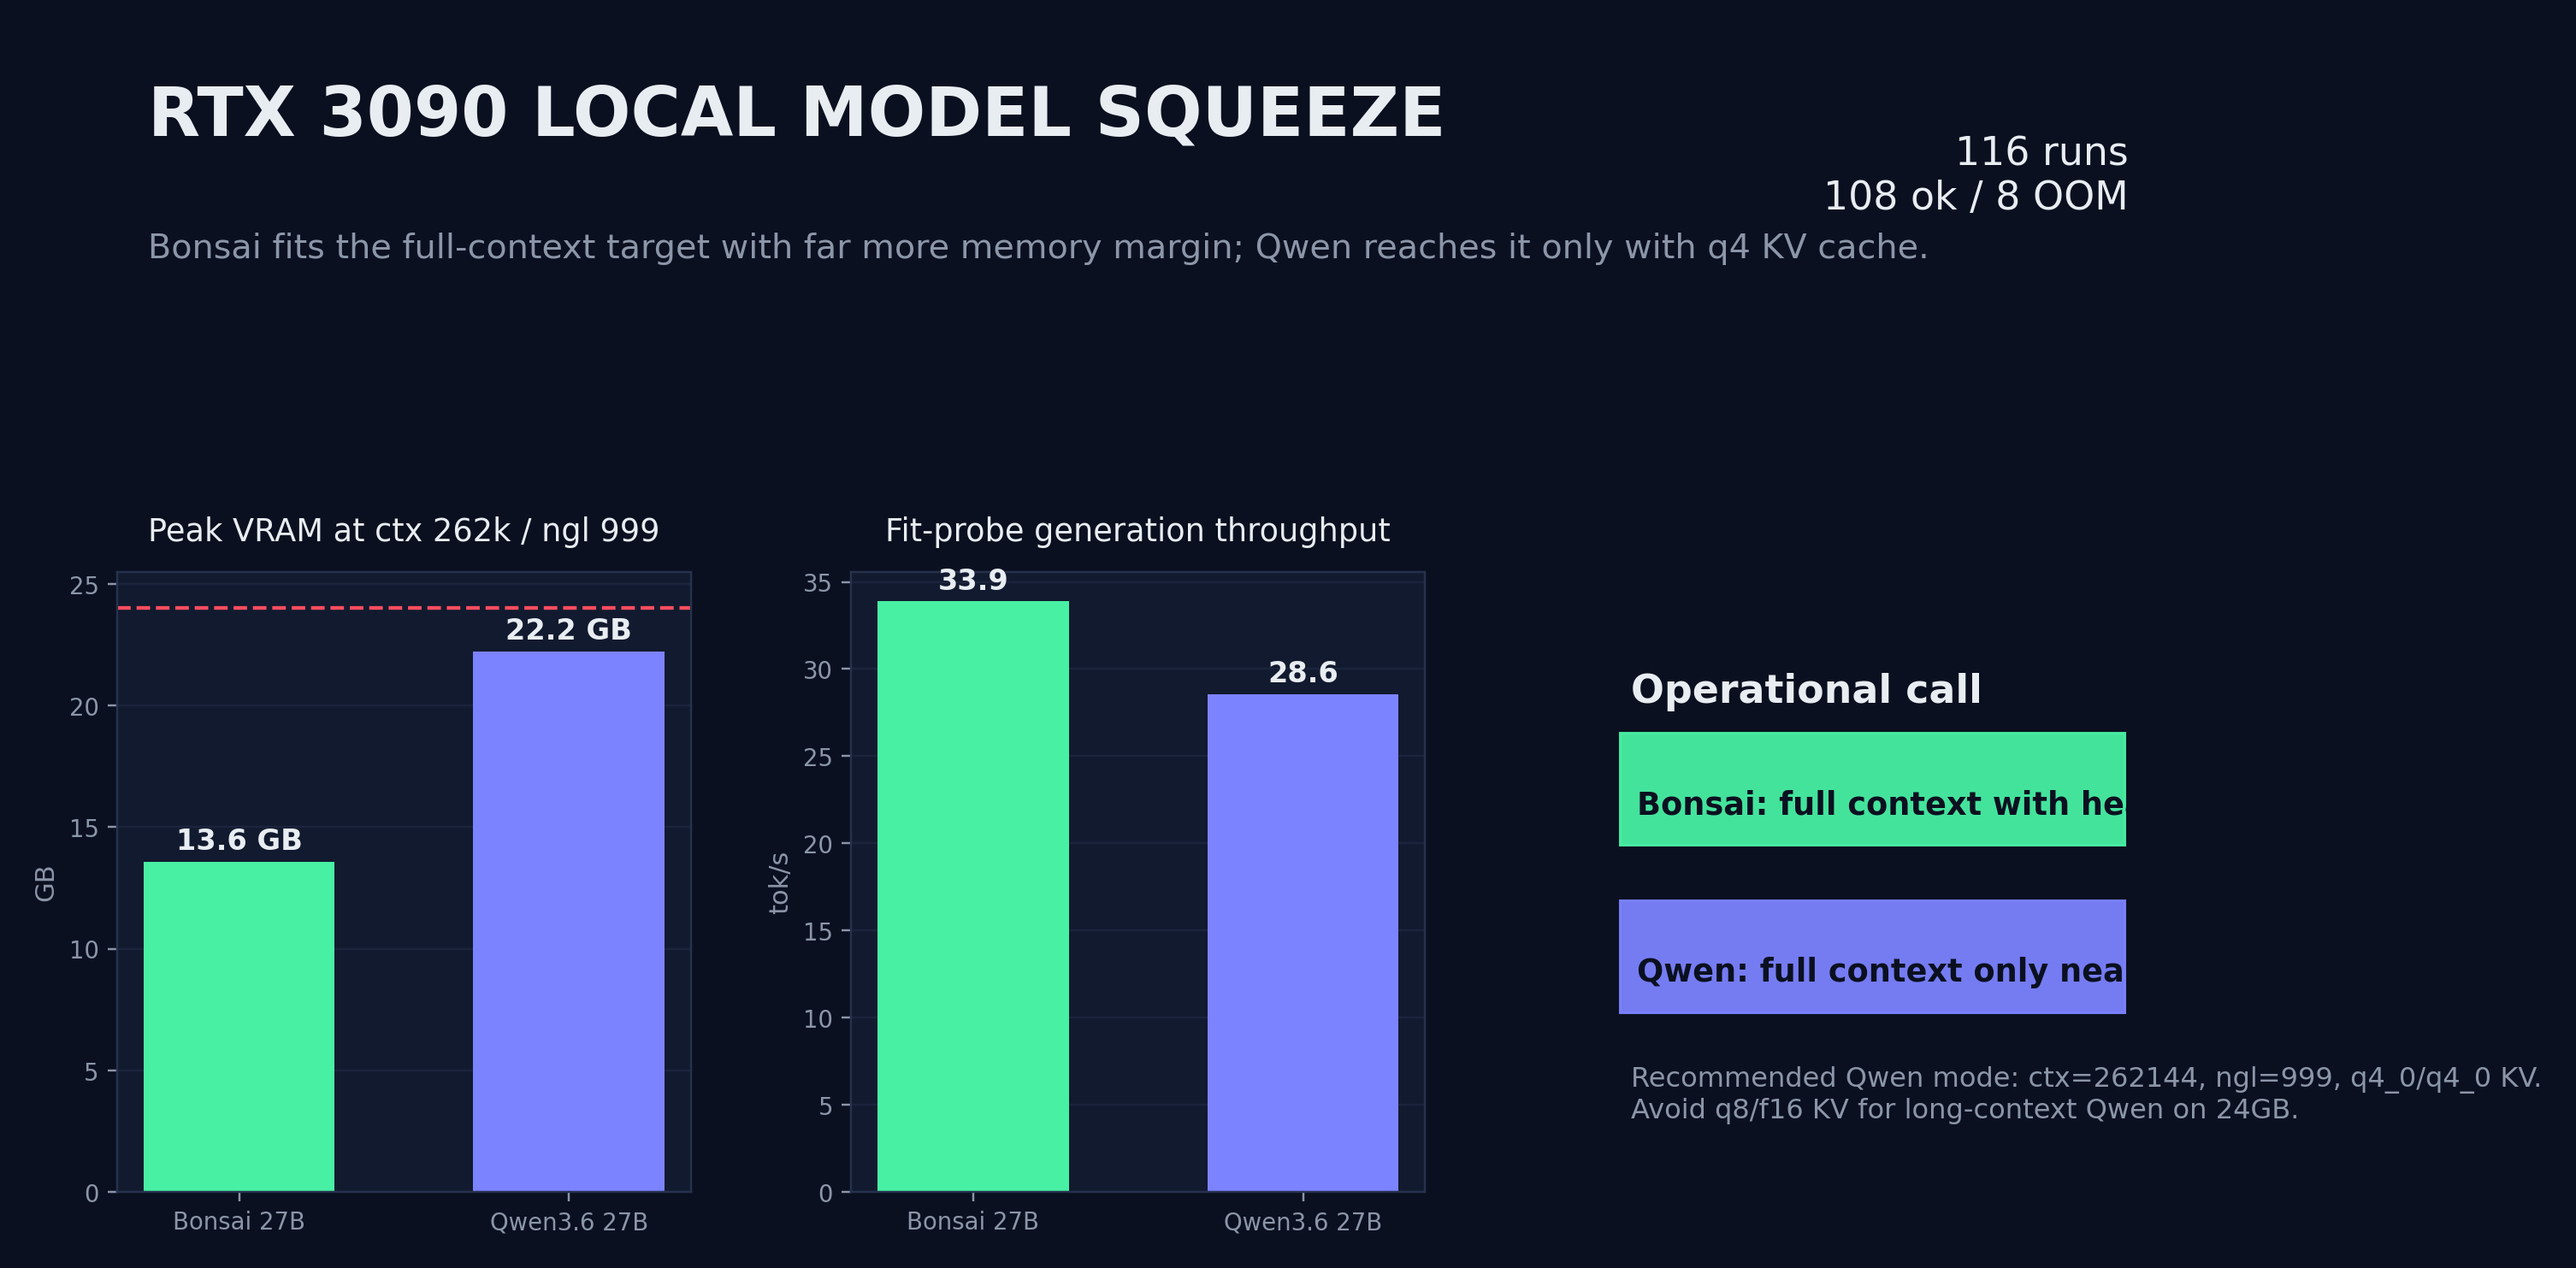
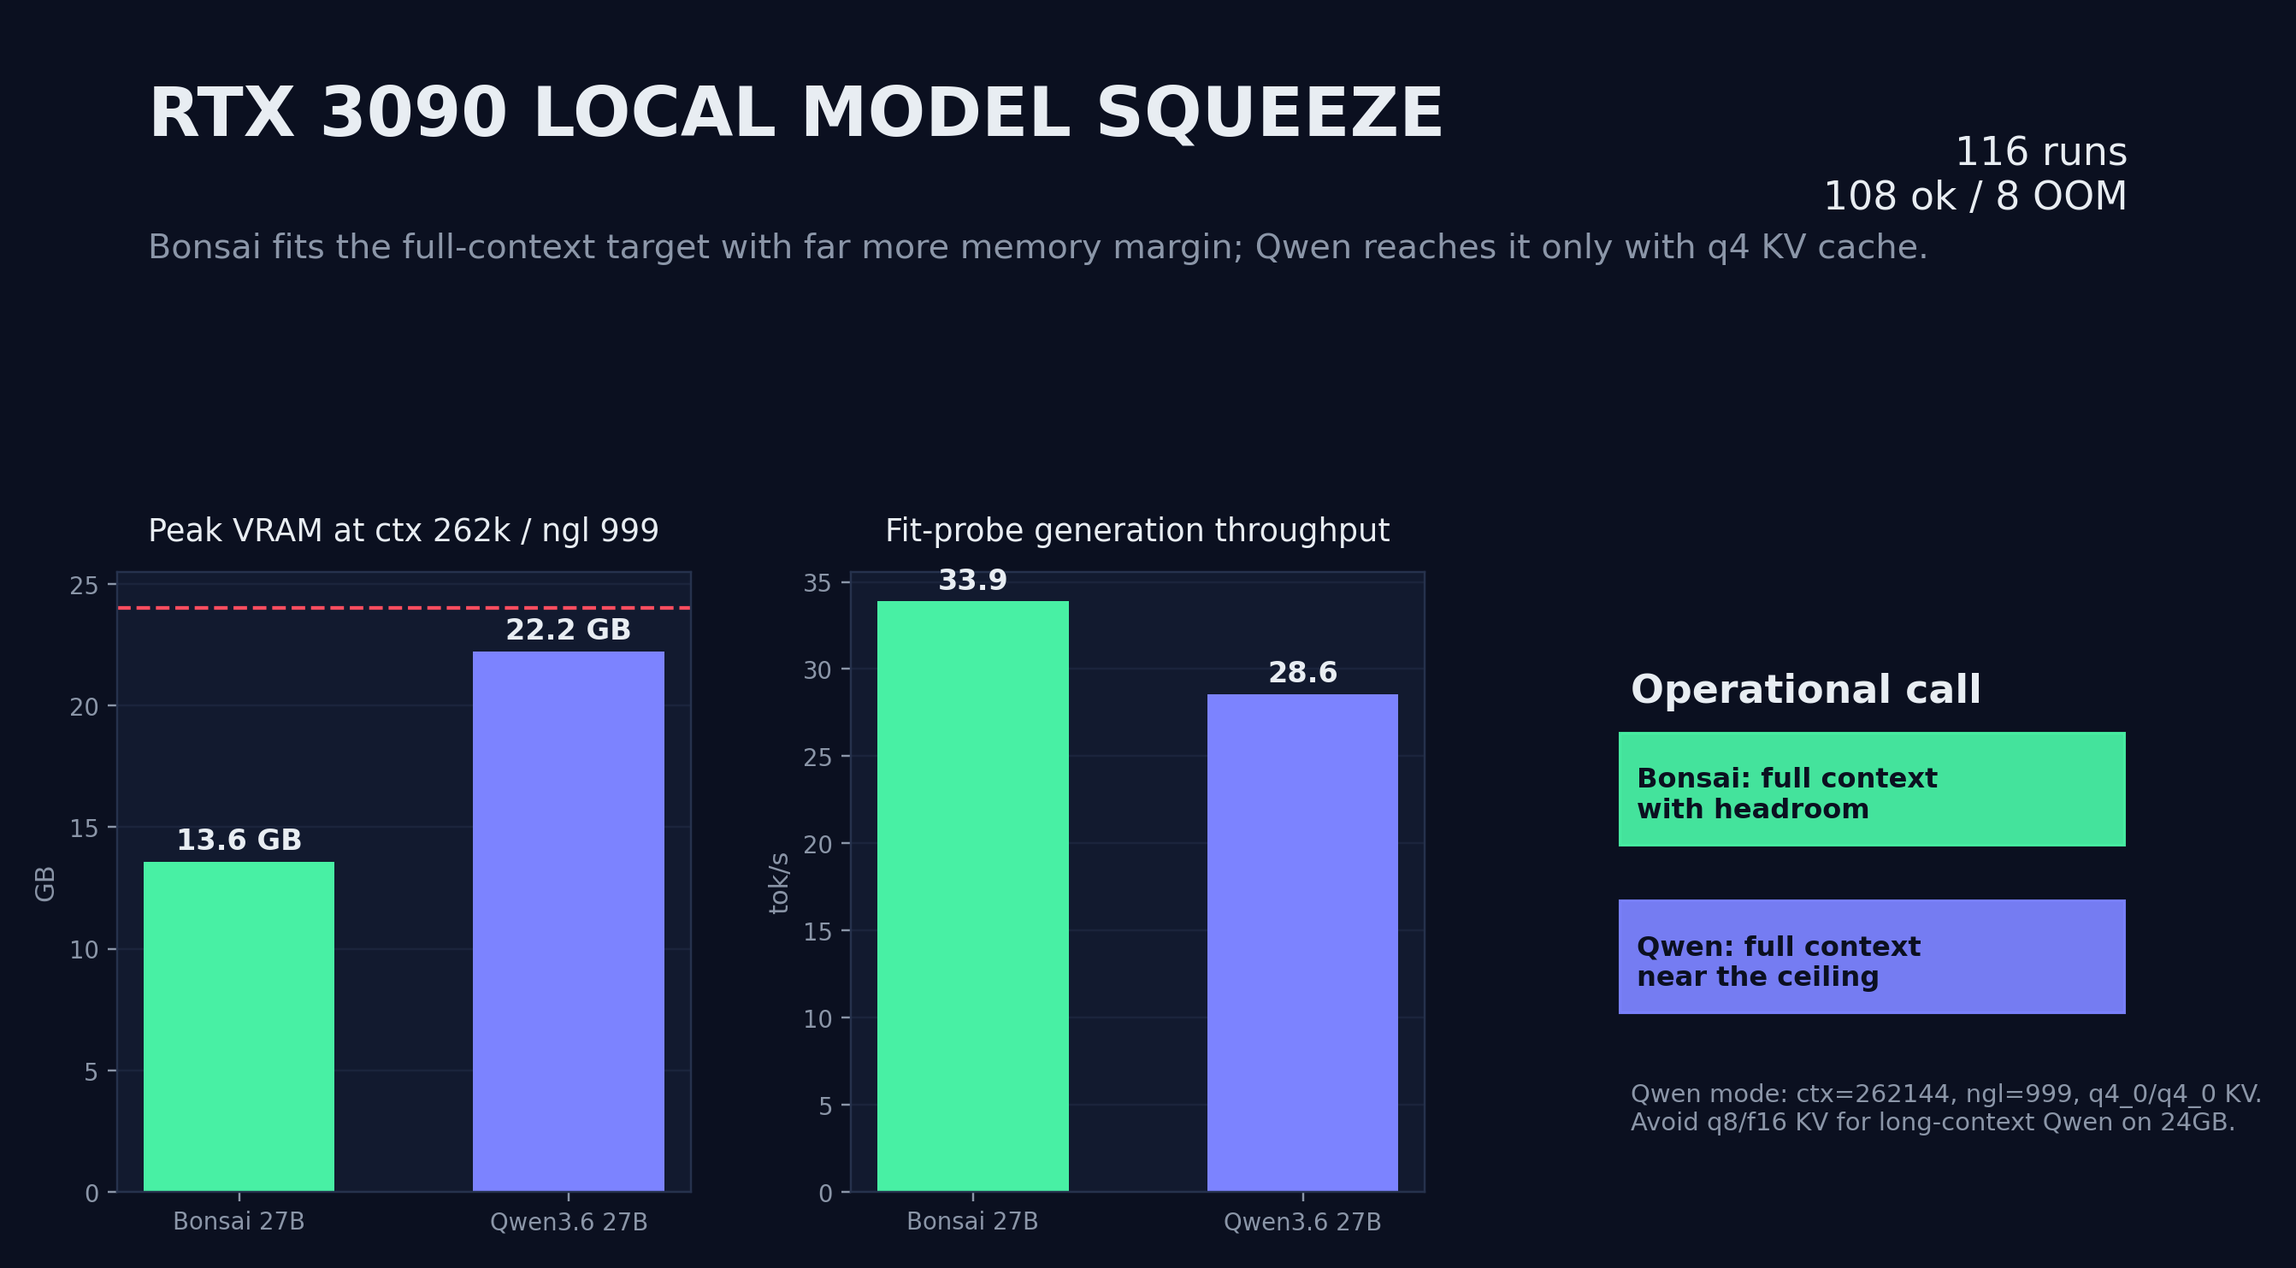
Polish generated benchmark infographics

diff --git a/scripts/generate_infographics.py b/scripts/generate_infographics.py
@@ -110,9 +110,9 @@ def draw_overview(rows: list[dict[str, str]], out_dir: Path) -> None:
     ax3.add_patch(Rectangle((0.06, 0.56), 0.88, 0.18, color=BONSAI, alpha=0.95, transform=ax3.transAxes))
     ax3.add_patch(Rectangle((0.06, 0.29), 0.88, 0.18, color=QWEN, alpha=0.95, transform=ax3.transAxes))
     ax3.text(0.08, 0.79, 'Operational call', color=INK, fontsize=15, fontweight='bold', transform=ax3.transAxes)
-    ax3.text(0.09, 0.61, 'Bonsai: full context with headroom', color=BG, fontsize=12, fontweight='bold', transform=ax3.transAxes)
-    ax3.text(0.09, 0.34, 'Qwen: full context only near ceiling', color=BG, fontsize=12, fontweight='bold', transform=ax3.transAxes)
-    ax3.text(0.08, 0.12, 'Recommended Qwen mode: ctx=262144, ngl=999, q4_0/q4_0 KV.\nAvoid q8/f16 KV for long-context Qwen on 24GB.', color=MUTED, fontsize=10.5, transform=ax3.transAxes)
+    ax3.text(0.09, 0.64, 'Bonsai: full context\nwith headroom', color=BG, fontsize=10.5, fontweight='bold', transform=ax3.transAxes, va='center')
+    ax3.text(0.09, 0.37, 'Qwen: full context\nnear the ceiling', color=BG, fontsize=10.5, fontweight='bold', transform=ax3.transAxes, va='center')
+    ax3.text(0.08, 0.10, 'Qwen mode: ctx=262144, ngl=999, q4_0/q4_0 KV.\nAvoid q8/f16 KV for long-context Qwen on 24GB.', color=MUTED, fontsize=9.5, transform=ax3.transAxes)
     save(fig, out_dir / 'benchmark-overview.png')
 
 
@@ -144,7 +144,8 @@ def draw_oom(rows: list[dict[str, str]], out_dir: Path) -> None:
 
 def draw_quality(rows: list[dict[str, str]], out_dir: Path) -> None:
     summary = quality_summary(rows)
-    fig, axes = plt.subplots(1, 2, figsize=(14, 6.8), facecolor=BG)
+    fig, axes = plt.subplots(1, 2, figsize=(15, 7.4), facecolor=BG)
+    fig.subplots_adjust(left=0.07, right=0.98, bottom=0.10, top=0.76, wspace=0.20)
     for ax in axes:
         style_ax(ax)
     labels = []
@@ -167,8 +168,8 @@ def draw_quality(rows: list[dict[str, str]], out_dir: Path) -> None:
     axes[1].set_ylabel('tok/s', color=MUTED)
     for i, value in enumerate(gens):
         axes[1].text(i, value + 1, f'{value:.1f}', ha='center', color=INK, fontsize=10, fontweight='bold')
-    fig.text(0.03, 0.96, 'QUALITY AND SPEED AT PRACTICAL SETTINGS', color=INK, fontsize=22, fontweight='bold')
-    fig.text(0.03, 0.91, 'q4_0/q4_0 KV, ngl=999. Failures are mostly long reasoning traces consuming the answer budget.', color=MUTED, fontsize=12)
+    fig.text(0.03, 0.94, 'QUALITY AND SPEED AT PRACTICAL SETTINGS', color=INK, fontsize=21, fontweight='bold')
+    fig.text(0.03, 0.88, 'q4_0/q4_0 KV, ngl=999. Failures mostly reflect long reasoning traces consuming the answer budget.', color=MUTED, fontsize=11.5)
     save(fig, out_dir / 'quality-speed-score.png')
 
 
